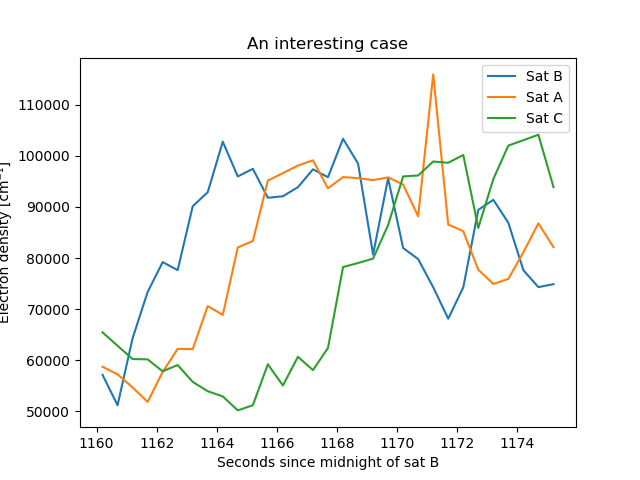
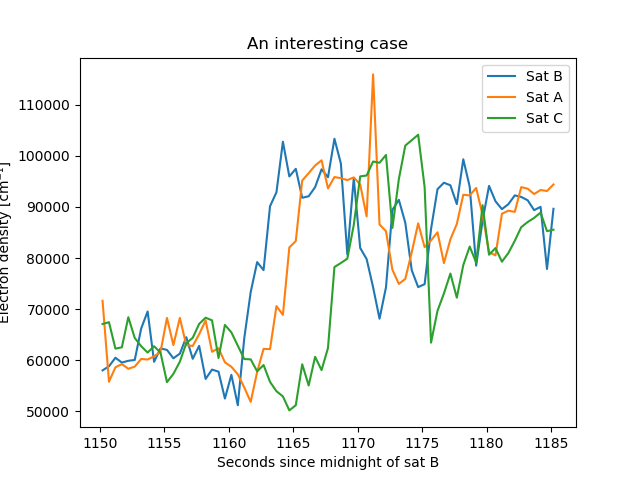
Fixed bug in case study 1

diff --git a/SWARM/wave_inspector.py b/SWARM/wave_inspector.py
@@ -127,8 +127,8 @@ class WaveInspect(SWARMprocess):
         "between A and B is %g" % AB_shift_pearson)
 
         #case of B, then A, then C increasing
-        time1 = 1160
-        time2 = 1175
+        time1 = 1150
+        time2 = 1185
         index1 = int(np.round((time1 - seconds[0])*2))
         index2 = int(np.round((time2 - seconds[0])*2))+1
 
@@ -148,30 +148,30 @@ class WaveInspect(SWARMprocess):
         plt.show()
 
 
-        corr_vecB, shiftvecB = self.correlator(NeC, NeB, start = index1, stop = index2, shifts = 40)
-        corr_vecA, shiftvecA = self.correlator(NeC, NeA, start = index1, stop = index2, shifts = 40)
-        plt.plot(shiftvecB, corr_vecB)
+        corr_vecA, shiftvecA = self.correlator(NeB, NeA, start = index1, stop = index2, shifts = 40)
+        corr_vecC, shiftvecC = self.correlator(NeB, NeC, start = index1, stop = index2, shifts = 40)
         plt.plot(shiftvecA, corr_vecA)
+        plt.plot(shiftvecC, corr_vecC)
         plt.xlabel("Indices shifted")
         plt.ylabel("Pearson correlation coefficient")
-        plt.title("Correlation coefficients, keeping C stationary.")
-        plt.legend(["Shifting B", "Shifting A"])
+        plt.title("Correlation coefficients, keeping B stationary.")
+        plt.legend(["Shifting A", "Shifting C"])
         plt.savefig("/home/aksel/Documents/Master/Spacemaster/SWARM/Figures/interesting_case_correlations.png")
         plt.show()
 
-        max_indB = int(shiftvecB[np.where(corr_vecB == np.max(corr_vecB))])
-        testB2 = NeB[index1 - max_indB:index2 - max_indB]
+        max_indA = int(shiftvecA[np.where(corr_vecA == np.max(corr_vecA))])
+        testA2 = NeA[index1 + max_indA:index2 + max_indA]
 
-        max_indA = int(shiftvecA[np.where(corr_vecA[10:] == np.max(corr_vecA[10:]))])
-        testA2 = NeA[index1 - max_indA:index2 - max_indA]
+        max_indC = int(shiftvecC[np.where(corr_vecC == np.max(corr_vecC))])
+        testC2 = NeC[index1 + max_indC:index2 + max_indC]
 
-        plt.plot(test_seconds, testB2)
+        plt.plot(test_seconds, testB)
         plt.plot(test_seconds, testA2)
-        plt.plot(test_seconds, testC)
+        plt.plot(test_seconds, testC2)
         plt.xlabel("Seconds since midnight [Pre-shift B]")
         plt.ylabel("Electron density [cm⁻¹]")
         plt.legend(["Sat B", "Sat A", "Sat C"])
-        plt.title("A shifted %g, B shifted %g" % (max_indA, max_indB))
+        plt.title("A shifted %g, B shifted %g" % (max_indA, max_indC))
         plt.savefig("/home/aksel/Documents/Master/Spacemaster/SWARM/Figures/intersting_case_shifted.png")
         plt.show()
         print(self.cdfA["U_orbit"][index1])
@@ -412,4 +412,4 @@ class WaveInspect(SWARMprocess):
         print(BC_diff)
 if __name__ == "__main__":
     object = WaveInspect()
-    object.pole_case_study4()
+    object.pole_case_study()
